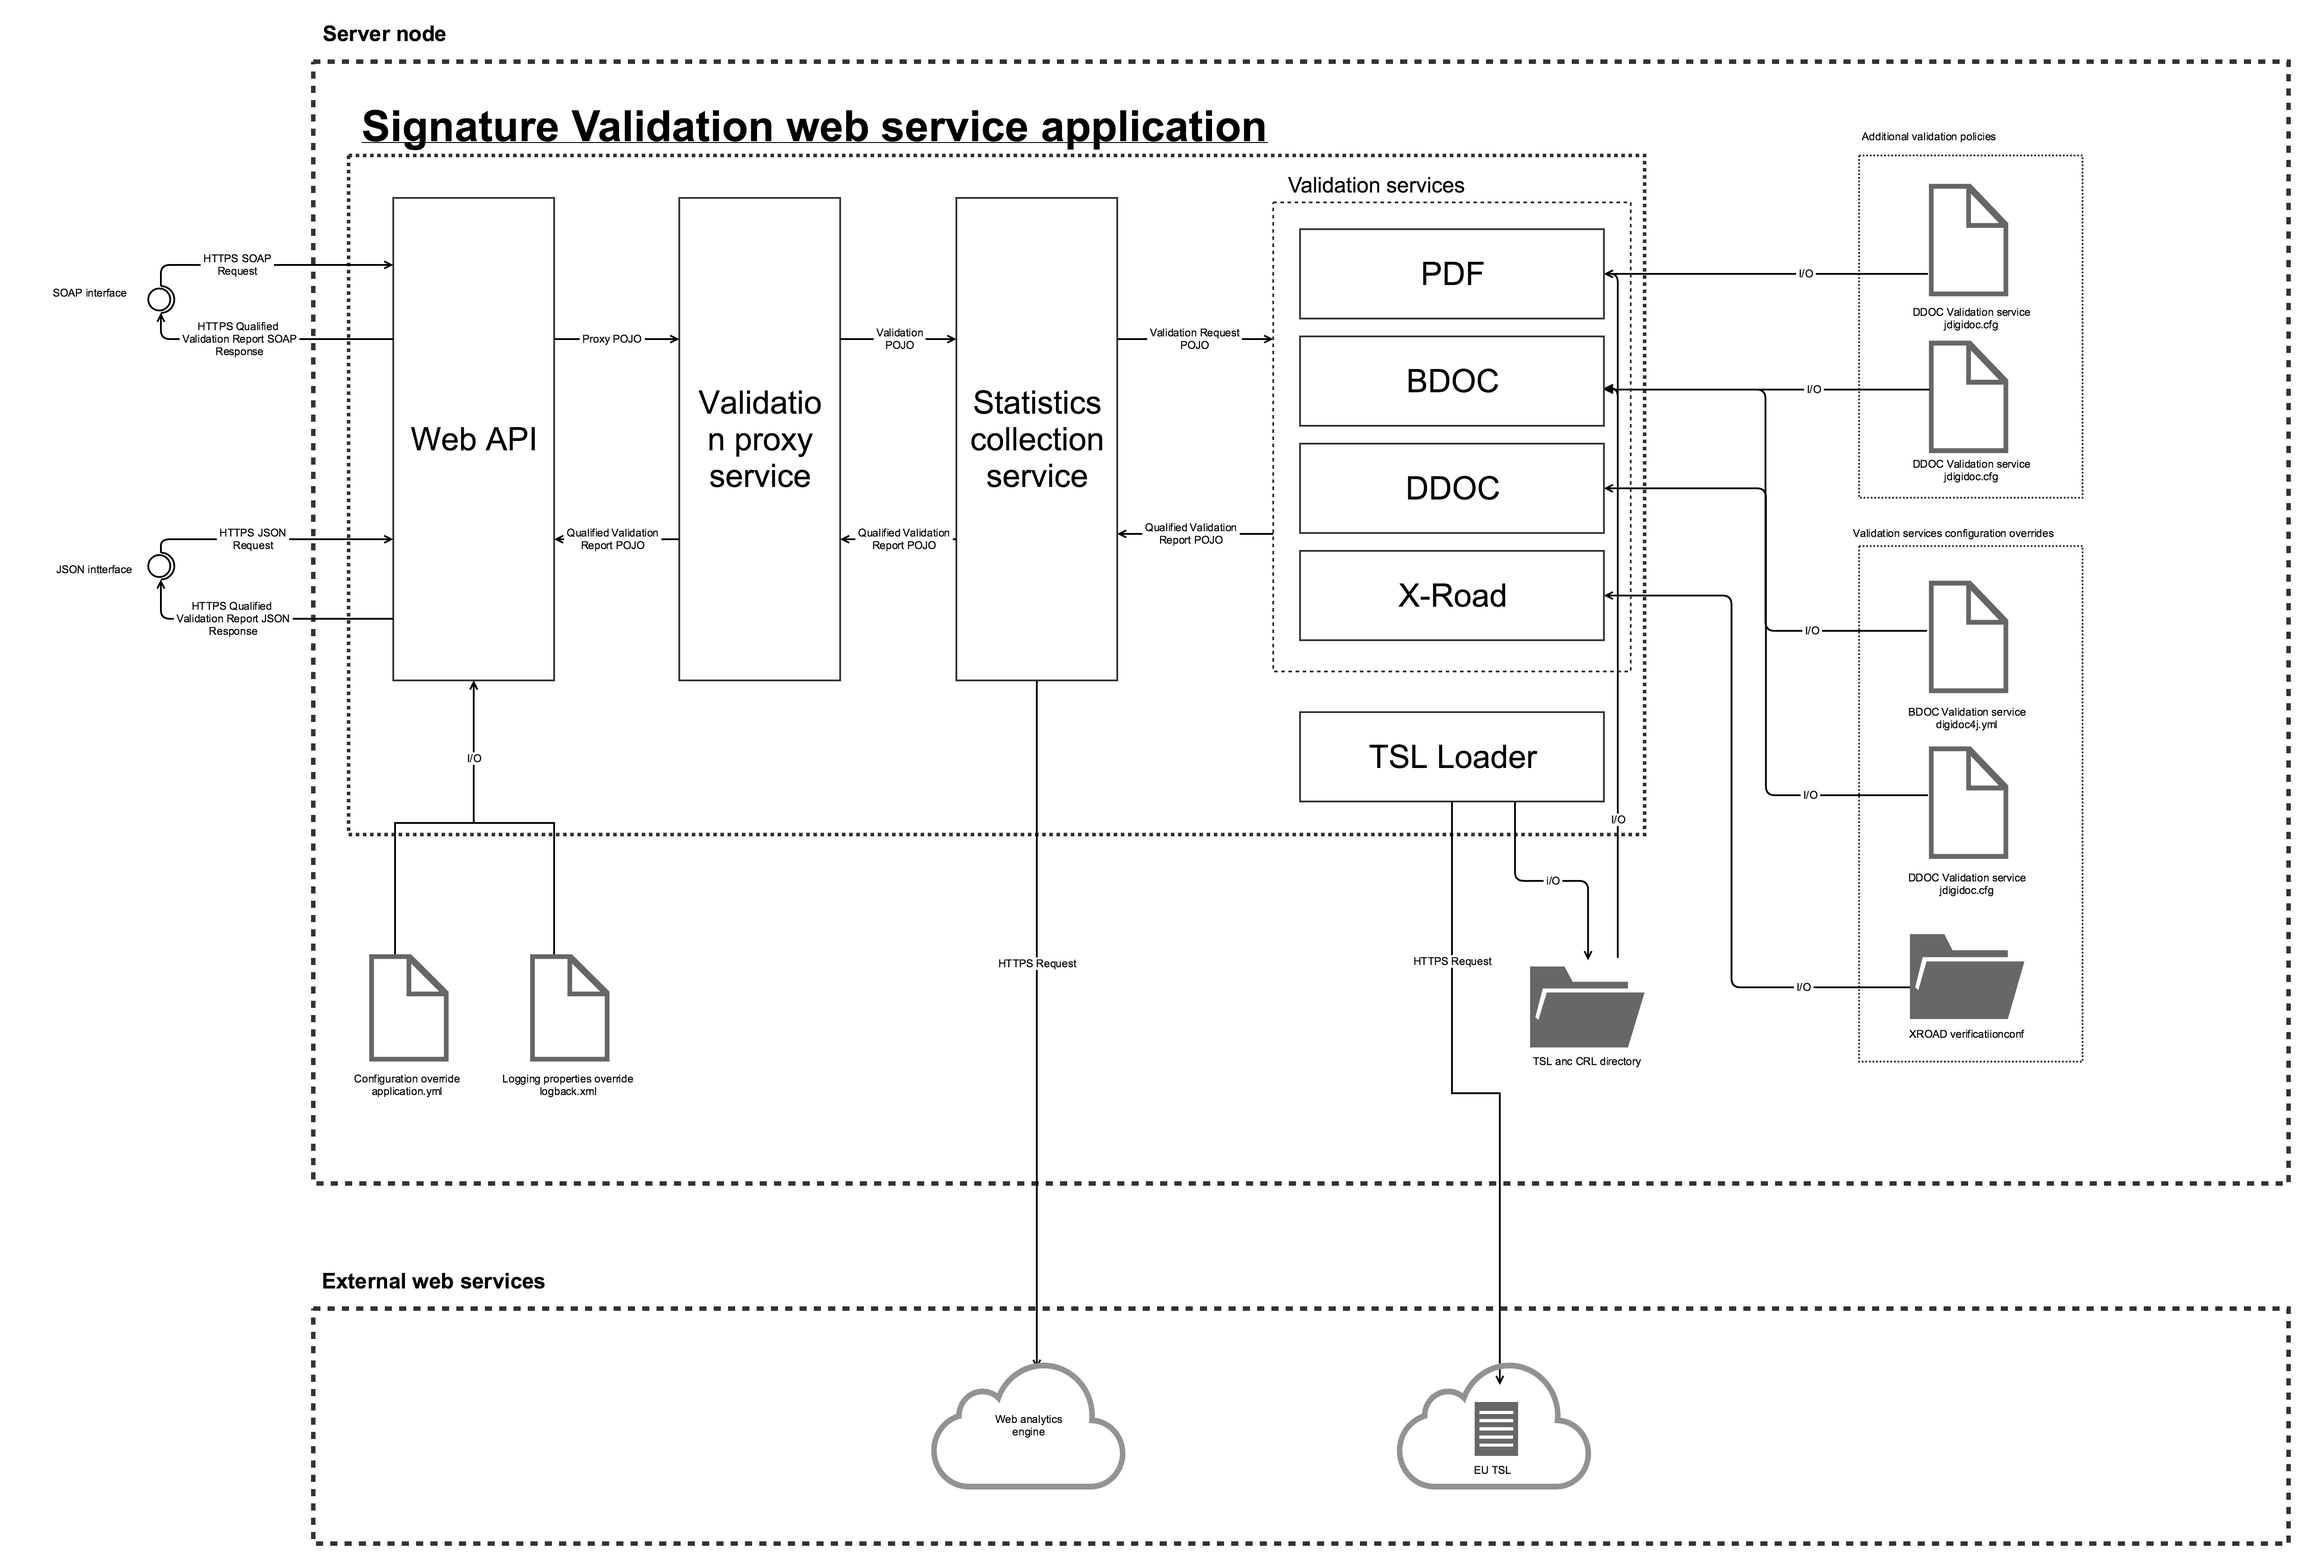
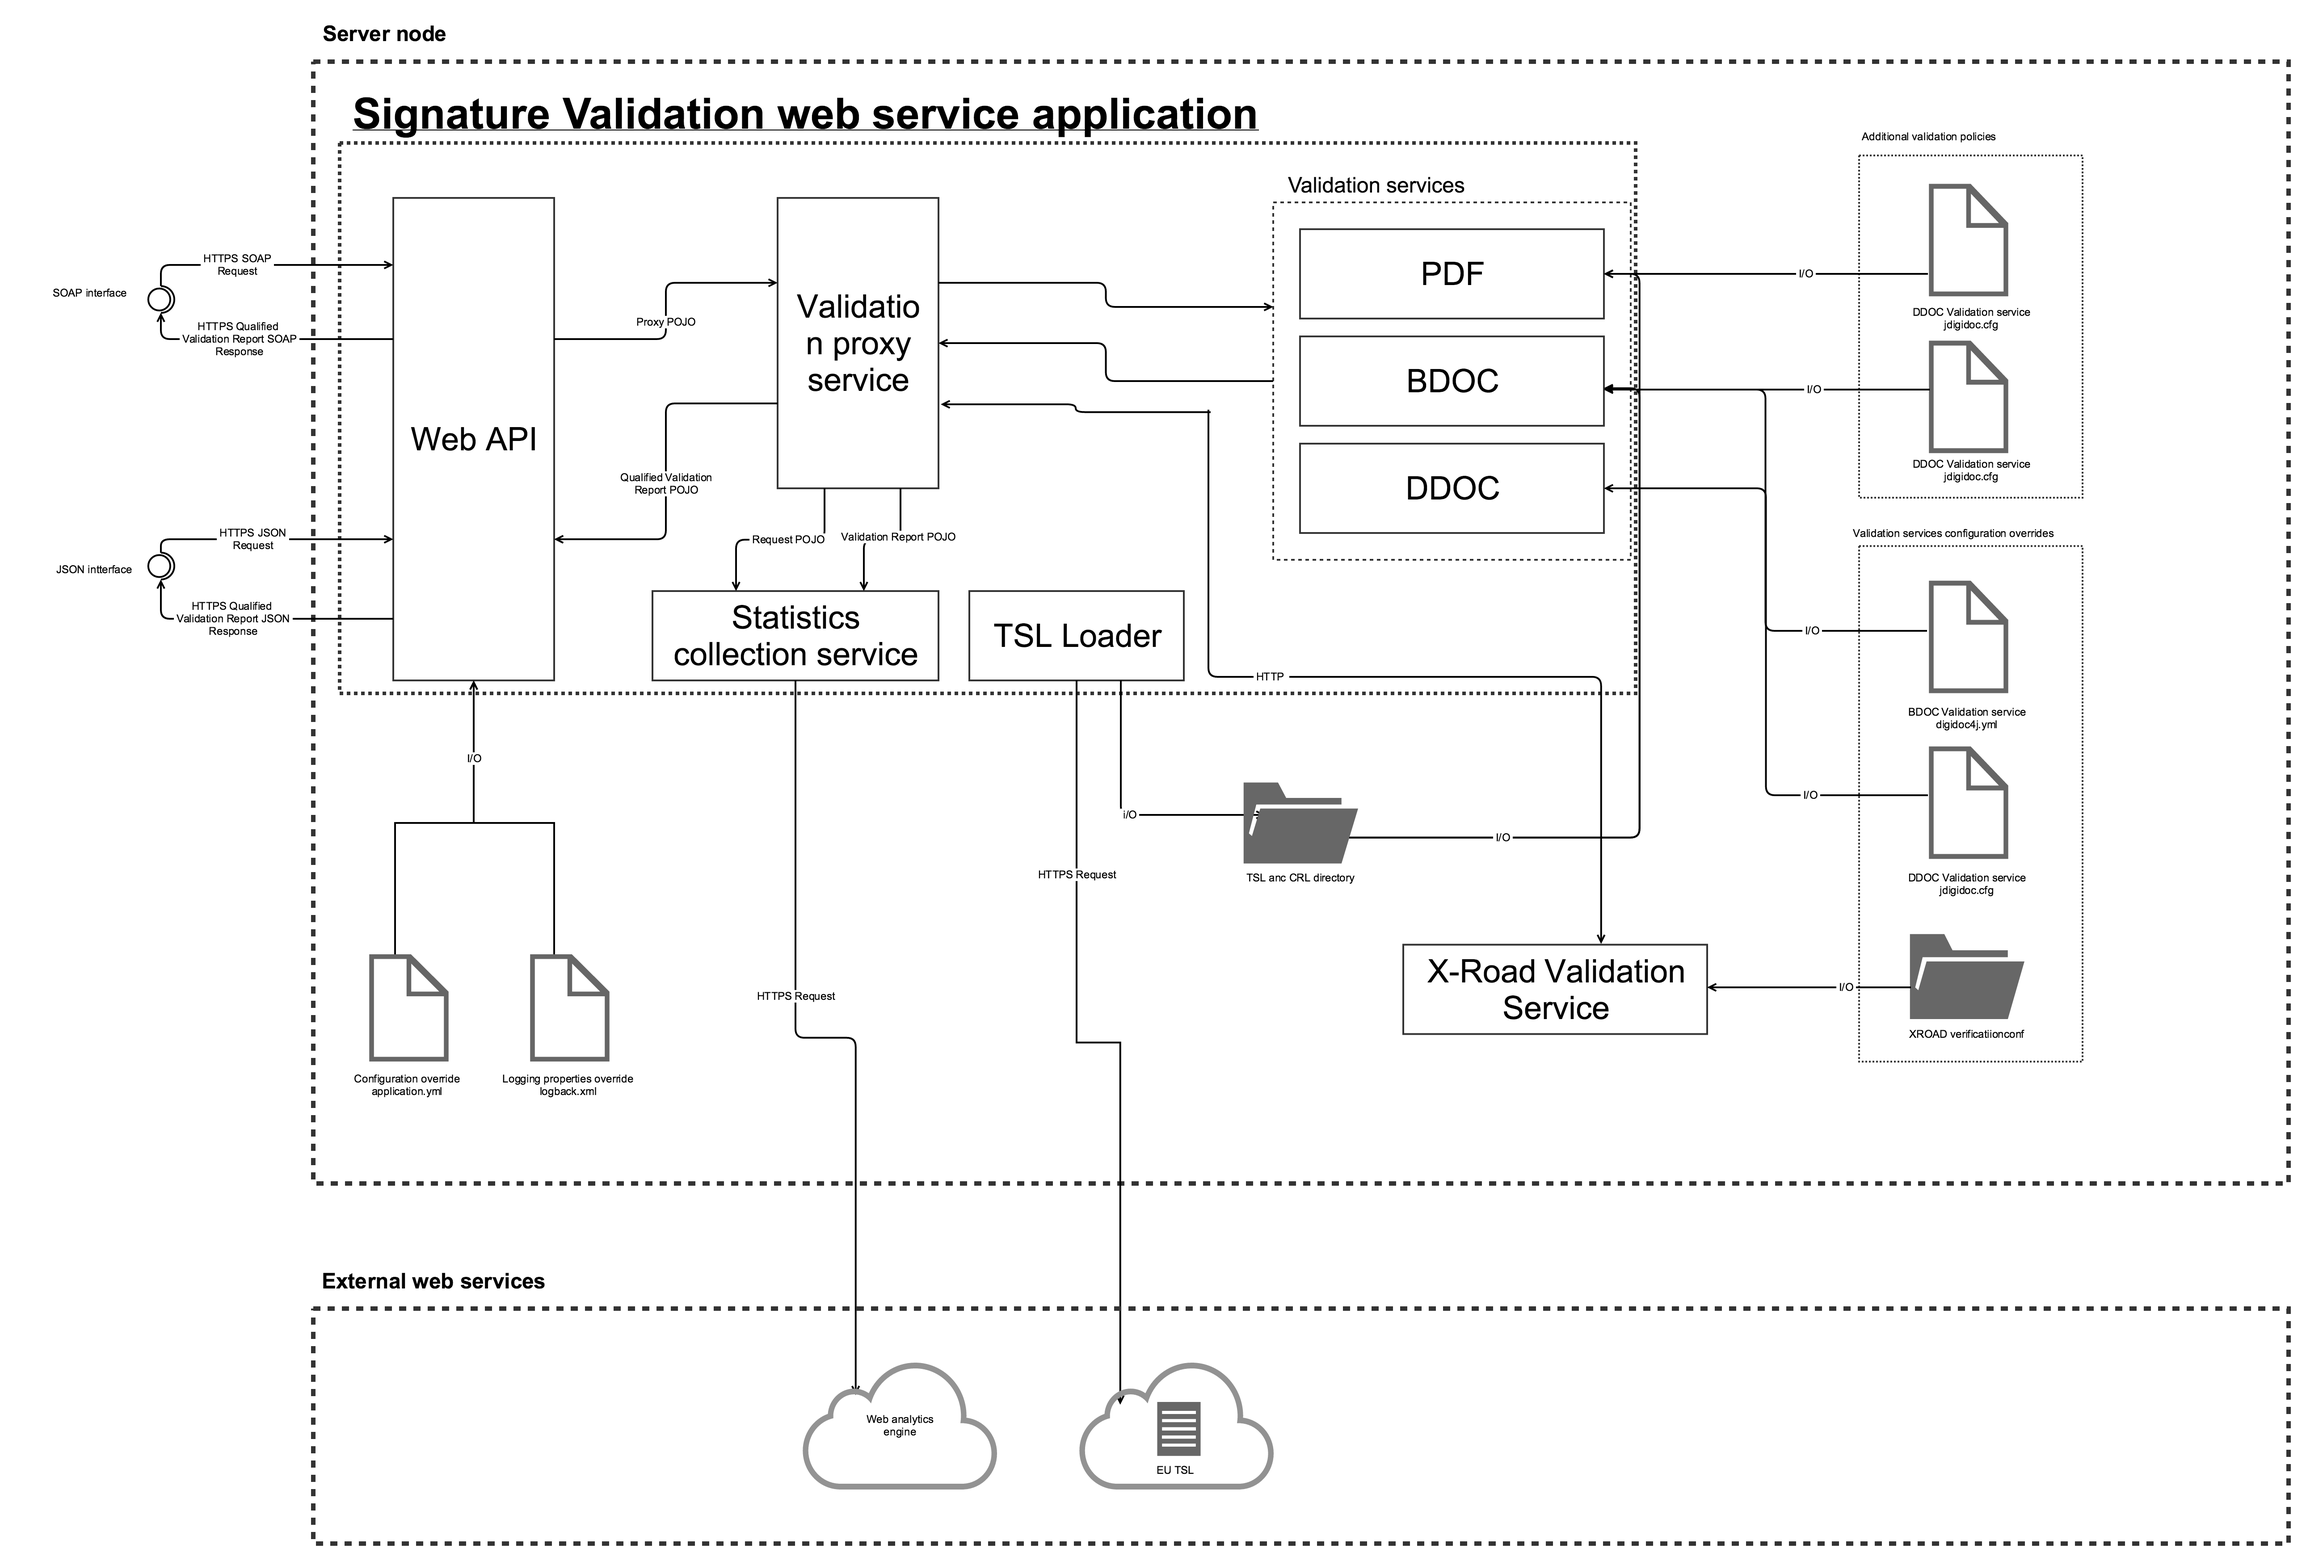
MAINTENANCE: Updated diagram images

diff --git a/siva-parent/siva-sample-application/src/main/java/ee/openeid/siva/sample/controller/ValidationTaskRunner.java b/siva-parent/siva-sample-application/src/main/java/ee/openeid/siva/sample/controller/ValidationTaskRunner.java
@@ -10,7 +10,7 @@ import org.springframework.beans.factory.annotation.Qualifier;
 import org.springframework.stereotype.Service;
 
 import java.io.IOException;
-import java.util.AbstractMap;
+import java.util.AbstractMap.SimpleImmutableEntry;
 import java.util.Map;
 import java.util.concurrent.ConcurrentHashMap;
 import java.util.concurrent.ExecutorService;
@@ -29,7 +29,7 @@ class ValidationTaskRunner {
     private ValidationService jsonValidationService;
     private ValidationService soapValidationService;
 
-    private Map<ValidationResultType, String> validationResults = new ConcurrentHashMap<>();
+    private final Map<ValidationResultType, String> validationResults = new ConcurrentHashMap<>();
 
     void run(UploadedFile uploadedFile) throws InterruptedException {
         Map<ValidationResultType, ValidationService> serviceMap = getValidationServiceMap();
@@ -48,11 +48,11 @@ class ValidationTaskRunner {
                 .collect(Collectors.toMap(Map.Entry::getKey, Map.Entry::getValue));
     }
 
-    private AbstractMap.SimpleImmutableEntry<ValidationResultType, ValidationService> addEntry(
+    private static SimpleImmutableEntry<ValidationResultType, ValidationService> addEntry(
             ValidationResultType json,
             ValidationService jsonValidationService
     ) {
-        return new AbstractMap.SimpleImmutableEntry<>(json, jsonValidationService);
+        return new SimpleImmutableEntry<>(json, jsonValidationService);
     }
 
     private void validateFile(

diff --git a/siva-parent/siva-sample-application/src/main/java/ee/openeid/siva/sample/siva/SivaSOAPValidationServiceClient.java b/siva-parent/siva-sample-application/src/main/java/ee/openeid/siva/sample/siva/SivaSOAPValidationServiceClient.java
@@ -2,7 +2,6 @@ package ee.openeid.siva.sample.siva;
 
 import ee.openeid.siva.sample.cache.UploadedFile;
 import ee.openeid.siva.sample.configuration.SivaRESTWebServiceConfigurationProperties;
-import ee.openeid.siva.sample.controller.ValidationRequestUtils;
 import org.slf4j.Logger;
 import org.slf4j.LoggerFactory;
 import org.springframework.beans.factory.annotation.Autowired;
@@ -55,7 +54,7 @@ public class SivaSOAPValidationServiceClient implements ValidationService {
     }
 
     private static String createXMLValidationRequest(String base64Document, String documentType, String filename) {
-        return "<soapenv:Envelope xmlns:soapenv=\"http://schemas.xmlsoap.org/soap/envelope/\" xmlns:soap=\"http://soap.webapp.siva.openeid.ee/\">\n" +
+        return "<soapenv:Envelope xmlns:soapenv=\"http://schemas.xmlsoap.org/soap/envelope/\" xmlns:soap=\"http://soap.webapp.siva.openeid.ee/\">" + LINE_SEPARATOR +
                 "   <soapenv:Header/>" + LINE_SEPARATOR +
                 "   <soapenv:Body>" + LINE_SEPARATOR +
                 "      <soap:ValidateDocument>" + LINE_SEPARATOR +

diff --git a/siva-parent/siva-sample-application/src/main/java/ee/openeid/siva/sample/siva/ValidationReportUtils.java b/siva-parent/siva-sample-application/src/main/java/ee/openeid/siva/sample/siva/ValidationReportUtils.java
@@ -16,6 +16,7 @@ public final class ValidationReportUtils {
     private static final String INVALID_CONTAINER = "INVALID";
     private static final String VALID_CONTAINER = "VALID";
     private static final String ERROR_VALIDATION = "ERROR";
+    private static final int GENERIC_ERROR = 101;
 
     public static String getValidateFilename(final String reportJSON) {
         if (isJSONNull(reportJSON)) {
@@ -53,7 +54,7 @@ public final class ValidationReportUtils {
     }
 
     public static String handleMissingJSON() throws JsonProcessingException {
-        return new ObjectMapper().writer().writeValueAsString(new ServiceError(101, "No JSON found in SiVa API response"));
+        return new ObjectMapper().writer().writeValueAsString(new ServiceError(GENERIC_ERROR, "No JSON found in SiVa API response"));
     }
 
     public static boolean isJSONNull(String json) {

diff --git a/siva-parent/siva-sample-application/src/main/java/ee/openeid/siva/sample/siva/SivaJSONValidationServiceClient.java b/siva-parent/siva-sample-application/src/main/java/ee/openeid/siva/sample/siva/SivaJSONValidationServiceClient.java
@@ -3,7 +3,6 @@ package ee.openeid.siva.sample.siva;
 import com.fasterxml.jackson.databind.ObjectMapper;
 import ee.openeid.siva.sample.cache.UploadedFile;
 import ee.openeid.siva.sample.configuration.SivaRESTWebServiceConfigurationProperties;
-import ee.openeid.siva.sample.controller.ValidationRequestUtils;
 import org.springframework.beans.factory.annotation.Autowired;
 import org.springframework.stereotype.Service;
 import org.springframework.web.client.ResourceAccessException;

diff --git a/siva-parent/siva-sample-application/src/test/java/ee/openeid/siva/sample/siva/ValidationRequestUtilsTest.java b/siva-parent/siva-sample-application/src/test/java/ee/openeid/siva/sample/siva/ValidationRequestUtilsTest.java
@@ -1,7 +1,6 @@
-package ee.openeid.siva.sample.controller;
+package ee.openeid.siva.sample.siva;
 
 import ee.openeid.siva.sample.cache.UploadedFile;
-import ee.openeid.siva.sample.siva.FileType;
 import ee.openeid.siva.sample.test.utils.TestFileUtils;
 import org.apache.commons.codec.binary.Base64;
 import org.junit.Test;

diff --git a/validation-services-parent/tsl-loader/src/main/java/ee/openeid/tsl/TSLLoader.java b/validation-services-parent/tsl-loader/src/main/java/ee/openeid/tsl/TSLLoader.java
@@ -47,7 +47,7 @@ public class TSLLoader {
         tslValidationJob.setCheckTSLSignatures(true);
     }
 
-    public void loadTSL() {
+    void loadTSL() {
         if (configurationProperties.isLoadFromCache()) {
             LOGGER.info("Loading TSL from cache");
             tslValidationJob.initRepository();

diff --git a/siva-parent/siva-sample-application/src/main/java/ee/openeid/siva/sample/siva/ValidationRequestUtils.java b/siva-parent/siva-sample-application/src/main/java/ee/openeid/siva/sample/siva/ValidationRequestUtils.java
@@ -1,7 +1,6 @@
-package ee.openeid.siva.sample.controller;
+package ee.openeid.siva.sample.siva;
 
 import ee.openeid.siva.sample.cache.UploadedFile;
-import ee.openeid.siva.sample.siva.FileType;
 import lombok.AccessLevel;
 import lombok.NoArgsConstructor;
 import org.apache.commons.codec.binary.Base64;

diff --git a/siva-parent/siva-sample-application/src/main/java/ee/openeid/siva/sample/ci/info/FilesystemBuildInfoFileLoader.java b/siva-parent/siva-sample-application/src/main/java/ee/openeid/siva/sample/ci/info/FilesystemBuildInfoFileLoader.java
@@ -18,7 +18,7 @@ import java.nio.file.Path;
 import java.nio.file.Paths;
 
 /**
- * Load CI build number and commit hash and commiter name 
+ * Load CI build number and commit hash and committer name
  */
 @Component
 public class FilesystemBuildInfoFileLoader implements BuildInfoFileLoader {

diff --git a/siva-parent/siva-sample-application/src/main/java/ee/openeid/siva/sample/SivaSampleApplication.java b/siva-parent/siva-sample-application/src/main/java/ee/openeid/siva/sample/SivaSampleApplication.java
@@ -7,6 +7,7 @@ import org.springframework.cache.annotation.EnableCaching;
 @EnableCaching
 @SpringBootApplication
 public class SivaSampleApplication {
+
     public static void main(String... args) {
         SpringApplication.run(SivaSampleApplication.class, args);
     }

diff --git a/docs/siva/deployment_view.md b/docs/siva/deployment_view.md
@@ -5,50 +5,27 @@
 ## Load balancer
 
 Load balancer can distribute traffic between SiVa nodes when there is more then one instance running.
-SiVa do not set any specific requirements for load balancer but in diagram the Nginx reverse proxy option is shown.
+SiVa do not set any specific requirements for load balancer but in diagram the Nginx reverse proxy option is used.
 
-## SiVa application server
+## SiVa web application
 
-SiVa validation service server that will provide the service needs to have JVM installed) both
-more commonly known options Oracle or OpenJDK are supported. SiVa application is built as executable JAR and can be
-configured like system service on Linux operating system.
+SiVa web appliction is executable Spring Boot JAR file. This means all the dependencies and servlet containers are
+packaged inside single JAR file. The JAR file can be placed anywhere in server and the JAR must be marked executable
+if its not already.
+
+There also should be separate user created to run executalbe JAR as Linux service.
 
 Read more about running
 [Spring Boot applications as Linux system service](https://docs.spring.io/spring-boot/docs/current/reference/html/deployment-install.html#deployment-service)
 
-SiVa validation service can run in cluster because it does not keep or create any sessions with client application
-or service.
+## SiVa X-Road validation service
 
-!!! note
-    The single executable JAR option may change in the future because we are considering isolating
-    each validation service and SiVa web application into separate JVM instance
+SiVa X-Road validation service is also Spring Boot executable JAR application and also should be installed as Linux
+service. X-Road validation service communicates with SiVa web application over HTTP and default port is 8081
 
+X-Road separate installation is required to avoid BouncyCastle libraries version conflicts and class loader
+issues.
 
-## Database server
-
-SiVa database server requirements are dictated by PüPKI application and from these requirements needs to be
-PostgreSQL. Currently there are no special requirements for database server nor database setup.
-
-!!! note
-    Database requirements section will be updated when analysis and development will begin on modification of
-    PüPKI application
-
-!!! development
-    It may be possible that we will build administration user interface as part of SiVa project so the database
-    and type of database RDBMS or NoSQL may change in the future
+## Security server
 
 
-## SiVa administration server
-
-SiVa administration will use PüPKI administration user interface to manage authorized service users and collect
- information about basic service usage by authorized clients.
-
-Only requirement currently known is that Python programming language support must be present in the server.
-
-!!! note
-    More detailed information about SiVa administration server setup will be provided when development and
-    analysis will begin for administration service
-
-!!! development
-    There is alternative option that we will build administration user interface from scratch using Java and
-    Spring Boot
